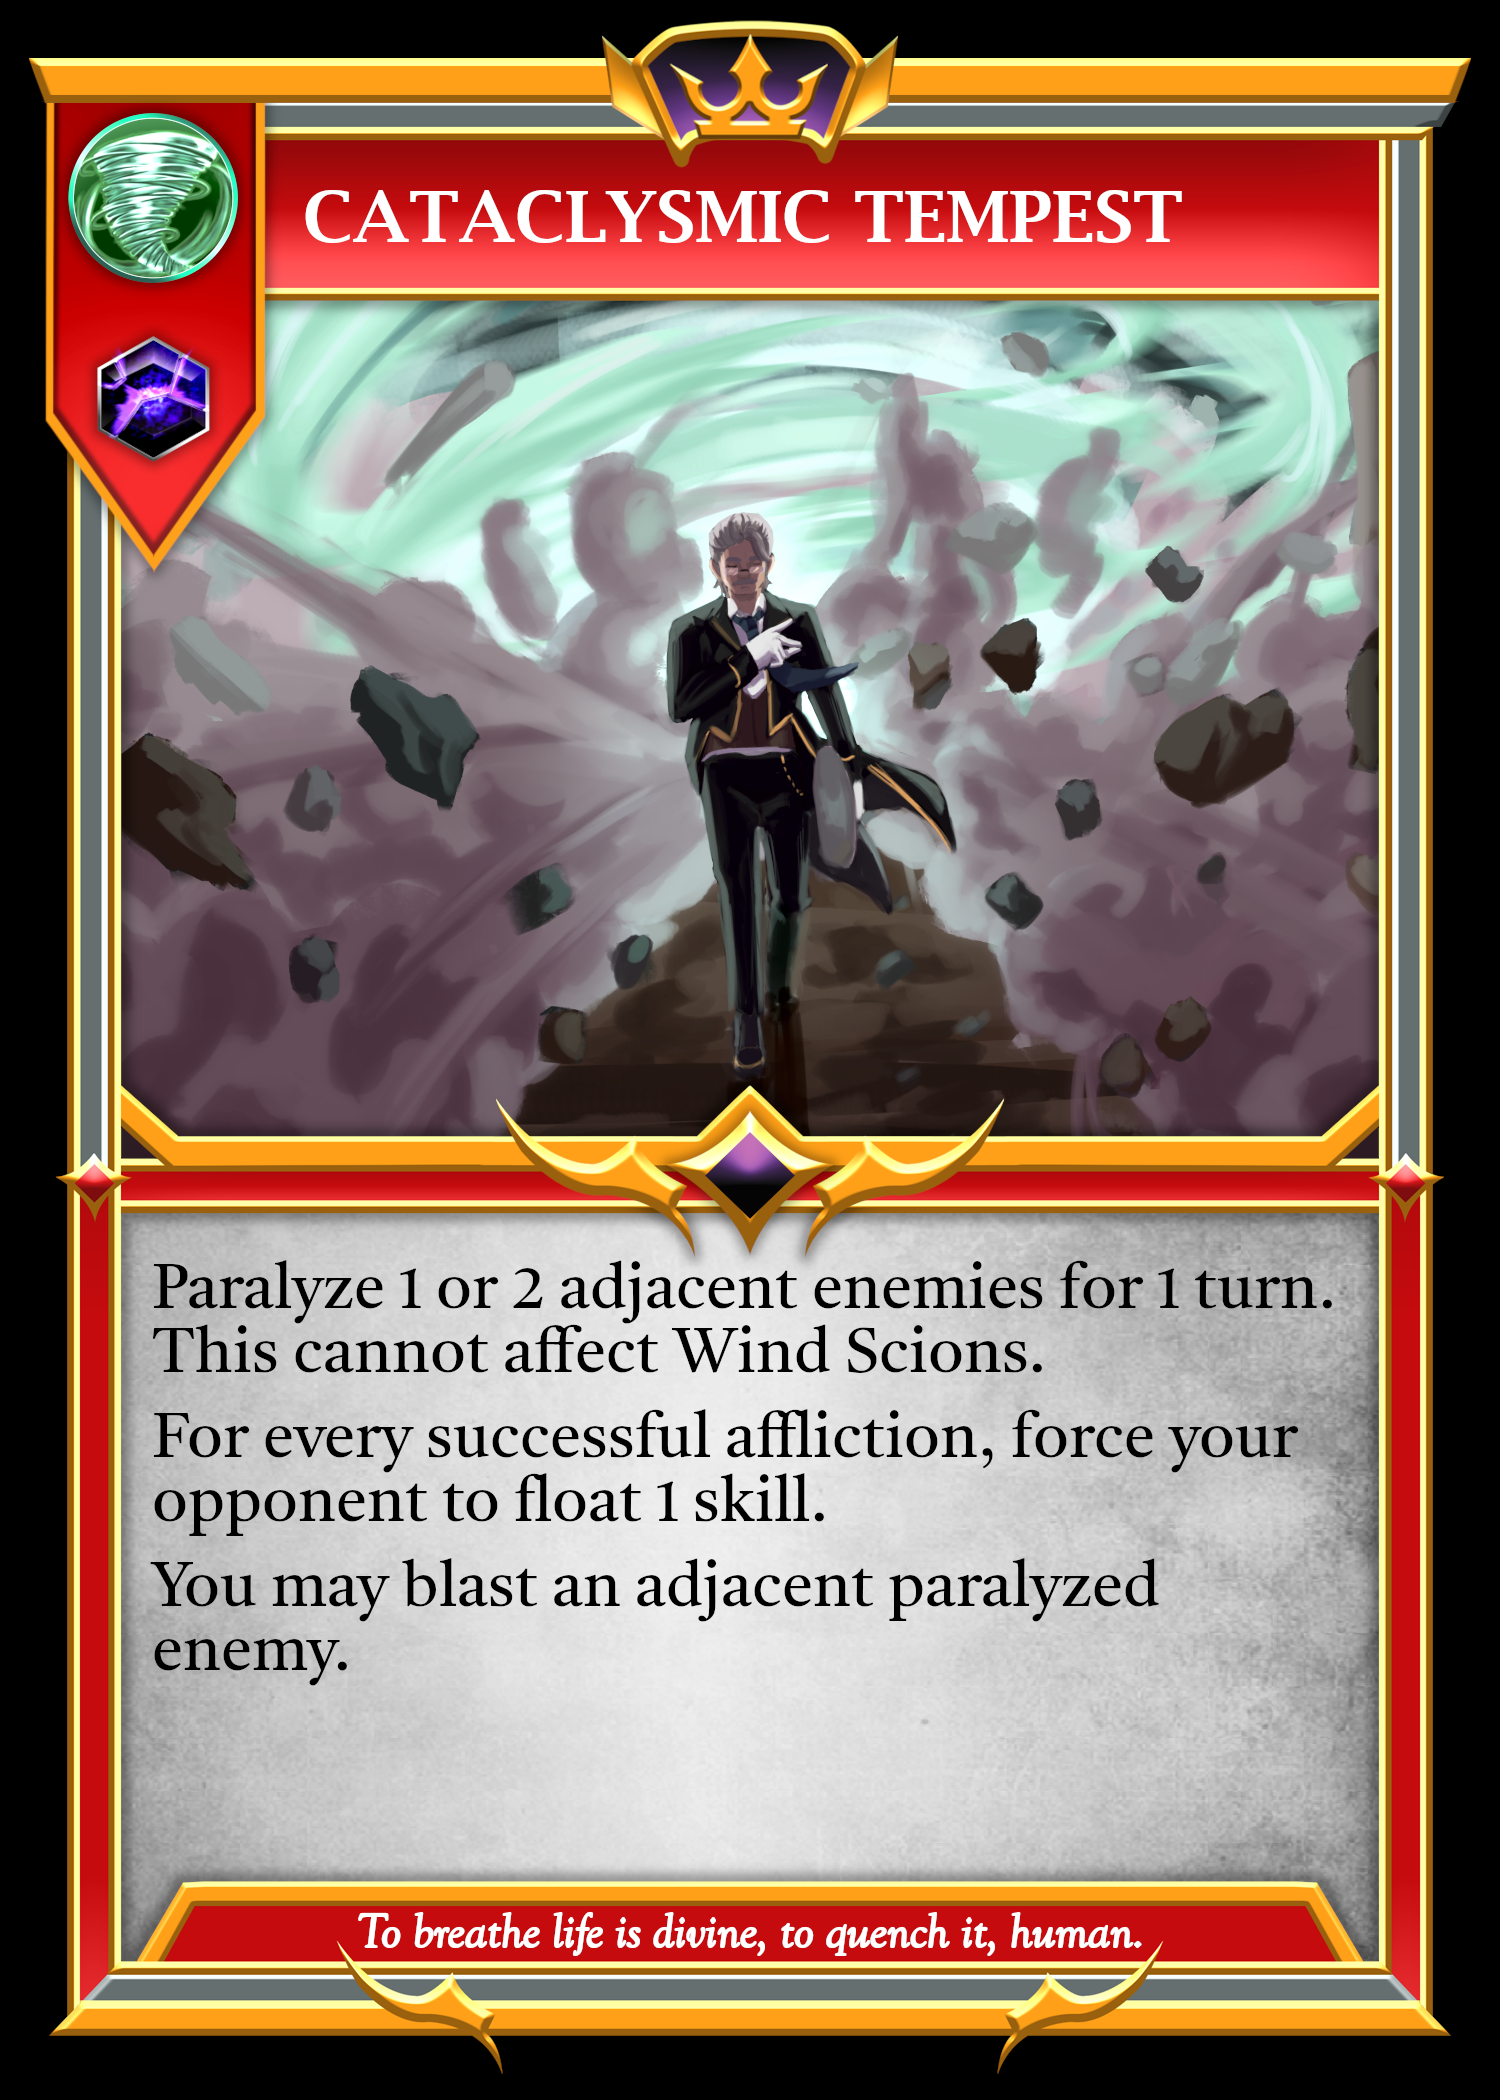
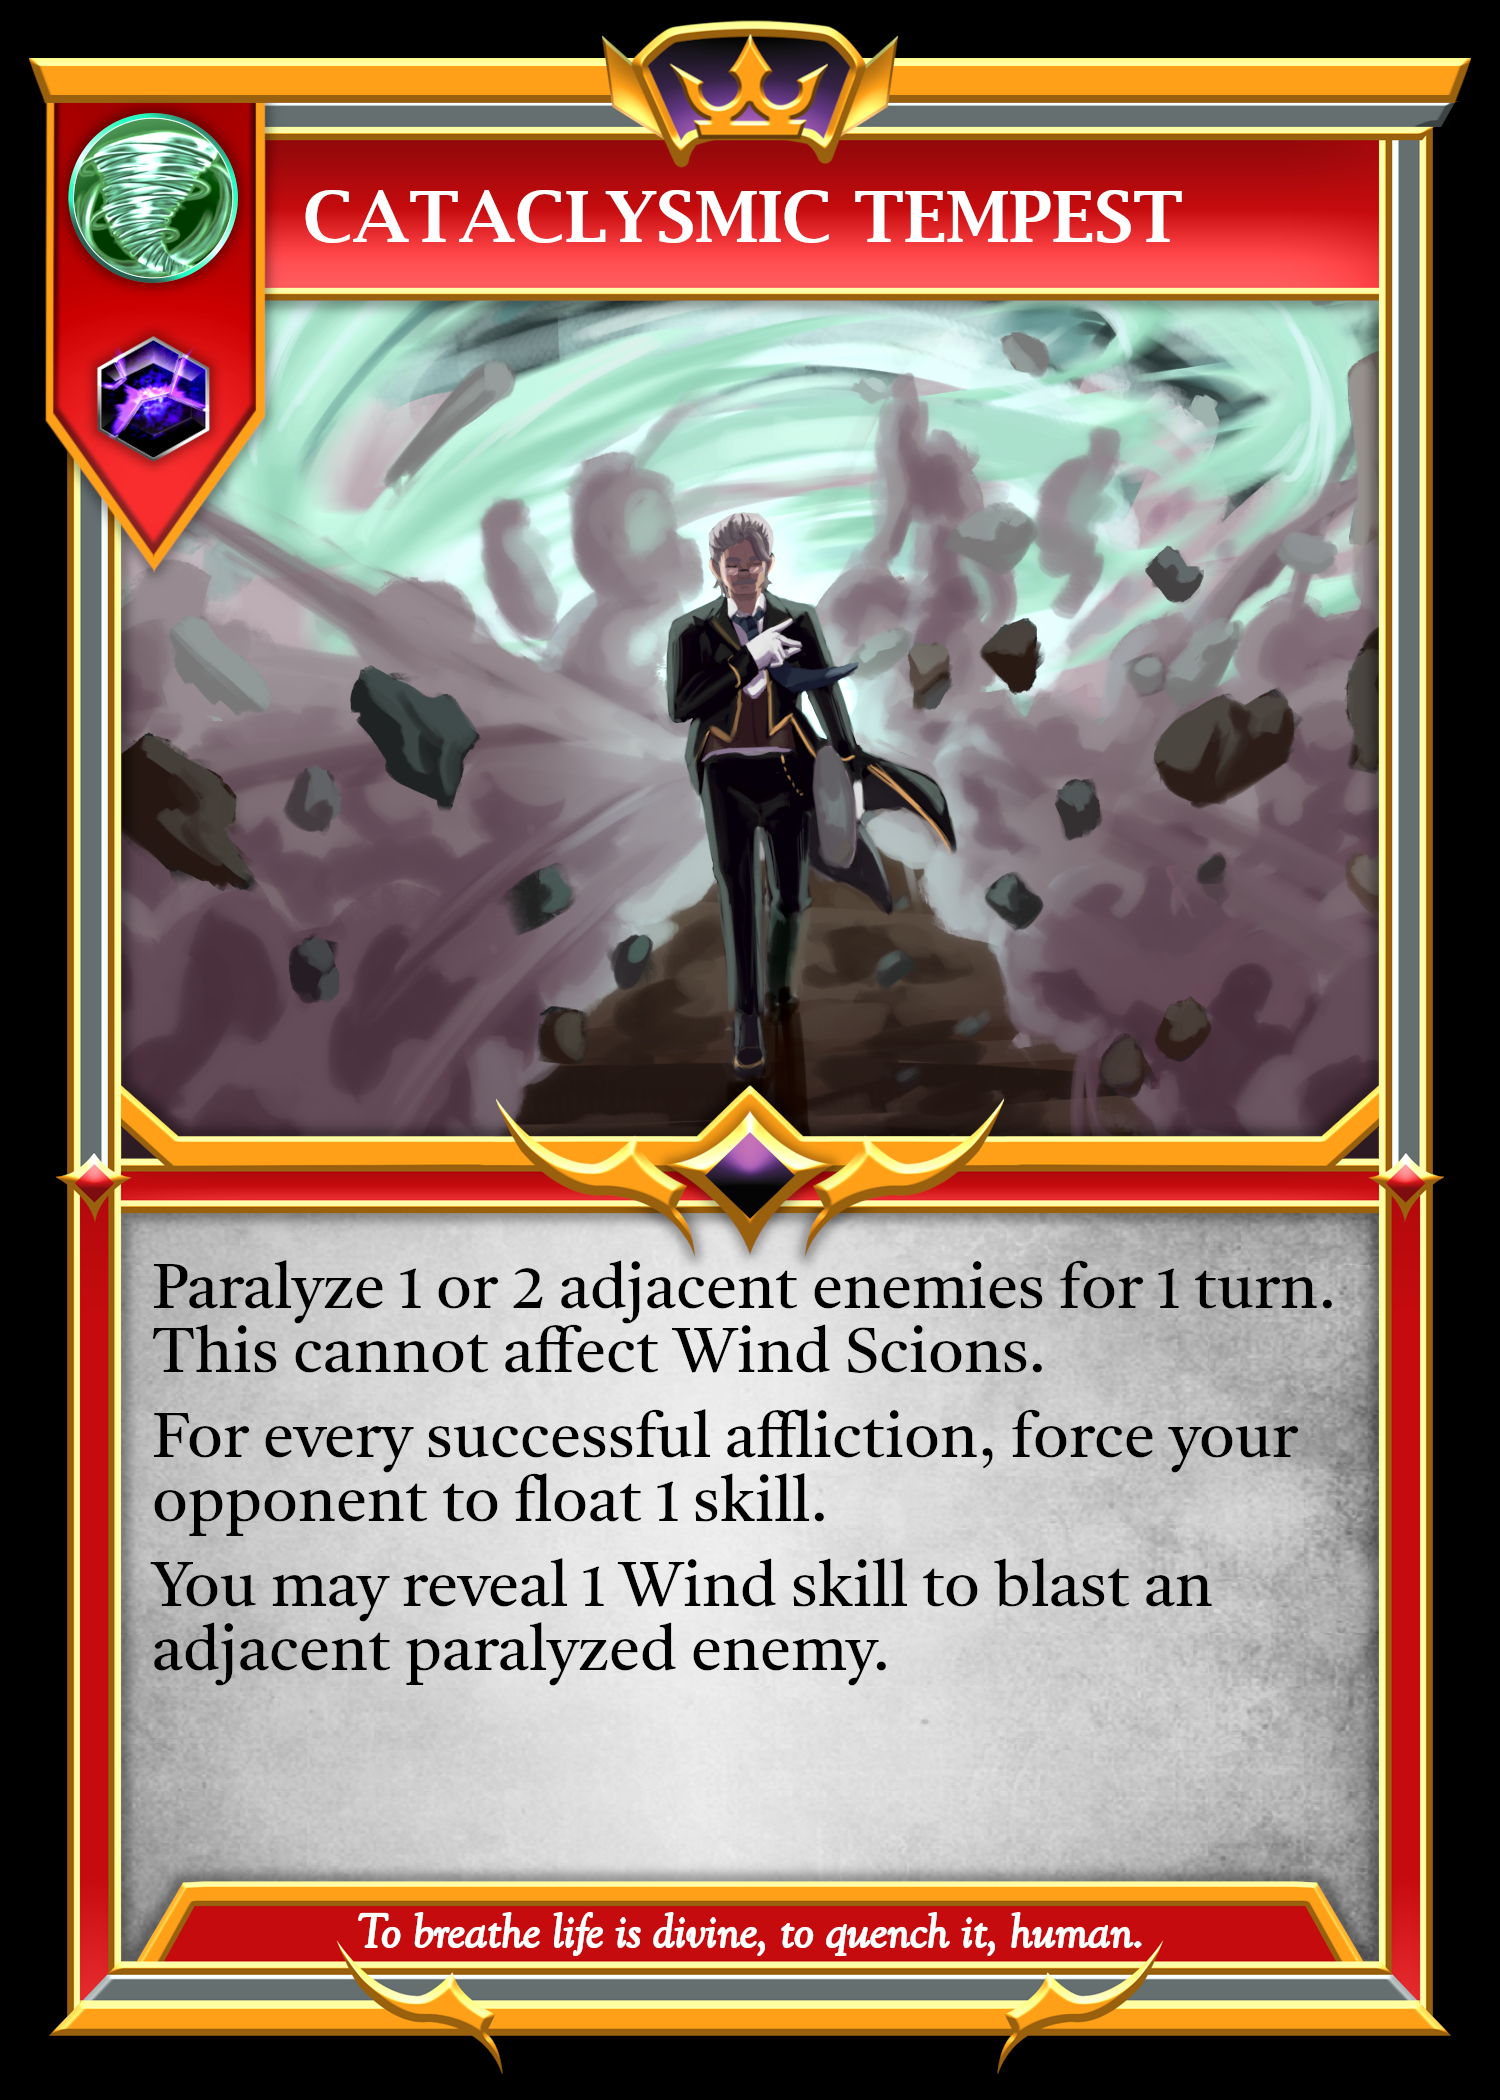
Reworked Cataclysmic Tempest.

Changed region(s): [[0.092, 0.7429, 0.7973, 0.8048]]

diff --git a/src/hooks/useSkillEffects.jsx b/src/hooks/useSkillEffects.jsx
@@ -768,7 +768,7 @@ export const useSkillEffects = () => {
     //activator can reveal 1 Wind skill to draw 1 floating skill
     if (
       // newGameState[self].skillFloat > 0 &&
-      newGameState[self].skillHand.length
+      newGameState[self].skillHand.length > 0
     ) {
       newGameState.currentResolution.push({
         resolution: "Wind Skill",
@@ -782,13 +782,6 @@ export const useSkillEffects = () => {
         },
       });
     }
-
-    // newGameState.currentResolution.push({
-    //   resolution: "Wind Skill",
-    //   resolution2: "Symphonic Screech Negate",
-    //   player: victim.player,
-    //   canFloat: !isAdjacent(unit, victim),
-    // });
 
     if (!isAdjacent(unit, victim)) {
       newGameState.currentResolution.push({
@@ -865,7 +858,7 @@ export const useSkillEffects = () => {
         unit.temporary.previousTarget
     );
 
-    if (unit !== null && !isMuted(unit)) {
+    if (unit && !isMuted(unit)) {
       //4. Continue
       newGameState.currentResolution.push({
         resolution: "Wind Skill",
@@ -902,7 +895,7 @@ export const useSkillEffects = () => {
     //end "Cataclysmic Tempest3" resolution
     newGameState.currentResolution.pop();
 
-    if (unit !== null && !isMuted(unit)) {
+    if (unit && !isMuted(unit)) {
       //6. Continue
       newGameState.currentResolution.push({
         resolution: "Wind Skill",
@@ -934,22 +927,35 @@ export const useSkillEffects = () => {
     //end "Cataclysmic Tempest5"
     newGameState.currentResolution.pop();
 
-    if (
-      unit !== null &&
-      !isMuted(unit) &&
-      getZonesWithEnemies(unit, 1).length > 0
-    ) {
-      if (getZonesWithEnemiesAfflicted(unit, 1, "paralysis").length > 0) {
+    if (unit && !isMuted(unit) && getZonesWithEnemies(unit, 1).length > 0) {
+      if (
+        newGameState[self].skillHand.length > 0 &&
+        getZonesWithEnemiesAfflicted(unit, 1, "paralysis").length > 0
+      ) {
+        // newGameState.currentResolution.push({
+        //   resolution: "Wind Skill",
+        //   resolution2: "Cataclysmic Tempest6",
+        //   unit: unit,
+        //   details: {
+        //     reason: "Cataclysmic Tempest Blast",
+        //     title: "Cataclysmic Tempest",
+        //     message: "You may blast an adjacent paralyzed enemy.",
+        //     no: "Skip",
+        //     yes: "Blast",
+        //     adjacentEnemies: getZonesWithEnemiesAfflicted(unit, 1, "paralysis"),
+        //   },
+        // });
+
         newGameState.currentResolution.push({
           resolution: "Wind Skill",
           resolution2: "Cataclysmic Tempest6",
           unit: unit,
           details: {
-            reason: "Cataclysmic Tempest Blast",
             title: "Cataclysmic Tempest",
-            message: "You may blast an adjacent paralyzed enemy.",
-            no: "Skip",
-            yes: "Blast",
+            message:
+              "You may reveal 1 Wind skill to blast an adjacent paralyzed enemy.",
+            restriction: ["03-01", "03-02", "03-03", "03-04"],
+            reason: "Cataclysmic Tempest",
             adjacentEnemies: getZonesWithEnemiesAfflicted(unit, 1, "paralysis"),
           },
         });

diff --git a/src/components/Board.jsx b/src/components/Board.jsx
@@ -55,7 +55,6 @@ import TacticSelectionViaEffect from "./modals/TacticSelectionViaEffect";
 import SelectCustomChoice from "./modals/SelectCustomChoice";
 
 import GlacialTorrent1 from "./skillModals/GlacialTorrent1";
-import SymphonicScreechFloat from "./skillModals/SymphonicScreechFloat";
 import CataclysmicTempestFloat from "./skillModals/CataclysmicTempestFloat";
 import FerventPrayerResonance from "./skillModals/FerventPrayerResonance";
 import PowerAtTheFinalHourProaction from "./skillModals/PowerAtTheFinalHourProaction";
@@ -2036,19 +2035,6 @@ const Board = (props) => {
             }
             break;
 
-          case "Symphonic Screech Negate":
-            return (
-              <>
-                {self === lastResolution.player && !hideModal && (
-                  <SymphonicScreechFloat
-                    updateFirebase={updateFirebase}
-                    hideOrRevealModale={hideOrRevealModale}
-                    canFloat={lastResolution.canFloat}
-                  />
-                )}
-              </>
-            );
-
           case "Symphonic Screech Float":
             return (
               <>
@@ -2151,7 +2137,7 @@ const Board = (props) => {
             return (
               <>
                 {self === lastResolution.unit.player && !hideModal && (
-                  <YouMayNoYes
+                  <SelectSkillReveal
                     unit={lastResolution.unit}
                     details={lastResolution.details}
                     updateFirebase={updateFirebase}
@@ -2160,6 +2146,35 @@ const Board = (props) => {
                 )}
               </>
             );
+
+          case "Cataclysmic Tempest6.5":
+            if (self === lastResolution.unit.player) {
+              // selectEnemiesAfflicted(lastResolution.unit, 1, null, "paralyze1", null);
+
+              selectEnemiesAfflicted(
+                lastResolution.unit,
+                1,
+                null,
+                "blast",
+                null,
+                "paralysis"
+              );
+            }
+            break;
+
+          // case "Cataclysmic Tempest6":
+          //   return (
+          //     <>
+          //       {self === lastResolution.unit.player && !hideModal && (
+          //         <YouMayNoYes
+          //           unit={lastResolution.unit}
+          //           details={lastResolution.details}
+          //           updateFirebase={updateFirebase}
+          //           hideOrRevealModale={hideOrRevealModale}
+          //         />
+          //       )}
+          //     </>
+          //   );
         }
         break;
 

diff --git a/src/components/modals/SelectSkillReveal.jsx b/src/components/modals/SelectSkillReveal.jsx
@@ -13,7 +13,7 @@ const SelectSkillReveal = (props) => {
   const { self, enemy } = useSelector((state) => state.teams);
   const dispatch = useDispatch();
 
-  const { drawSkill } = useRecurringEffects();
+  const { drawSkill, enterSelectUnitMode } = useRecurringEffects();
 
   const [selectedSkill, setSelectedSkill] = useState(null);
 
@@ -60,7 +60,17 @@ const SelectSkillReveal = (props) => {
         newGameState = drawSkill(newGameState);
         revealTitle = "Symphonic Screech";
         revealMessage = "Your opponent has revealed 1 Wind Skill";
+        break;
 
+      case "Cataclysmic Tempest":
+        newGameState.currentResolution.push({
+          resolution: "Wind Skill",
+          resolution2: "Cataclysmic Tempest6.5",
+          unit: unit,
+        });
+
+        revealTitle = "Cataclysmic Tempest";
+        revealMessage = "Your opponent has revealed 1 Wind Skill";
         break;
 
       case "Valiant Spark":
@@ -69,7 +79,6 @@ const SelectSkillReveal = (props) => {
 
         revealTitle = "Valiant Spark";
         revealMessage = "Your opponent has revealed 1 Lightning Skill";
-
         break;
 
       case "Arsenal Onslaught Paralyze":
@@ -81,7 +90,6 @@ const SelectSkillReveal = (props) => {
 
         revealTitle = "Arsenal Onslaught";
         revealMessage = "Your opponent has revealed 1 Metal Skill";
-
         break;
 
       default:

diff --git a/src/components/modals/YouMayNoYes.jsx b/src/components/modals/YouMayNoYes.jsx
@@ -145,16 +145,16 @@ const YouMayNoYes = (props) => {
         );
         break;
 
-      case "Cataclysmic Tempest Blast": // "Cataclysmic Tempest6"
-        enterSelectUnitMode(
-          props.details.adjacentEnemies,
-          props.unit,
-          newGameState,
-          null,
-          "blast",
-          null
-        );
-        break;
+      // case "Cataclysmic Tempest Blast": // "Cataclysmic Tempest6"
+      //   enterSelectUnitMode(
+      //     props.details.adjacentEnemies,
+      //     props.unit,
+      //     newGameState,
+      //     null,
+      //     "blast",
+      //     null
+      //   );
+      //   break;
 
       case "Reap the Whirlwind": //Reap the Whirlwind1
         newGameState.currentResolution.push({

diff --git a/src/components/skillModals/CataclysmicTempestFloat.jsx b/src/components/skillModals/CataclysmicTempestFloat.jsx
@@ -33,11 +33,13 @@ const CataclysmicTempestFloat = (props) => {
     newGameState.currentResolution.pop();
 
     for (let i of selectedSkills) {
-      newGameState[self].skillRepertoire.push(hand[i].id);
-      newGameState[self].skillFloat += 1;
+      if (hand[i].id === "SX-01") {
+        newGameState[self].skillVestige.push(hand[i].id);
+      } else {
+        newGameState[self].skillRepertoire.push(hand[i].id);
+        newGameState[self].skillFloat += 1;
+      }
     }
-
-    //to do: discard Transcendence
 
     const sortHandIndexes = [...selectedSkills].sort((a, b) => b - a);
 
